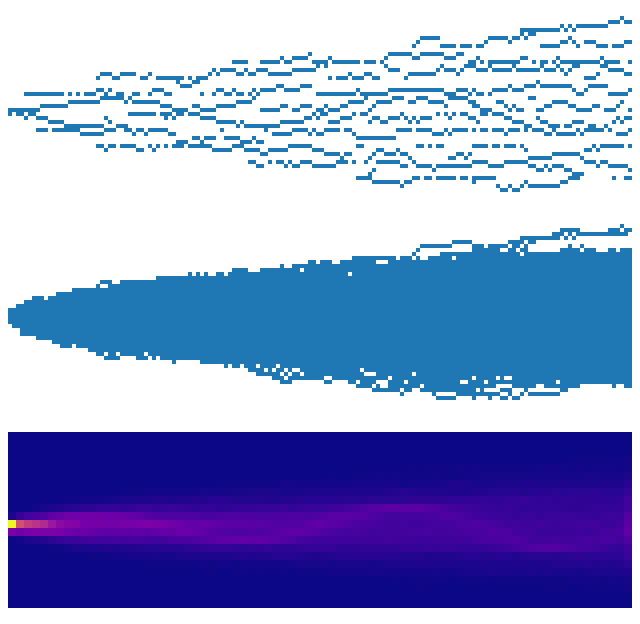
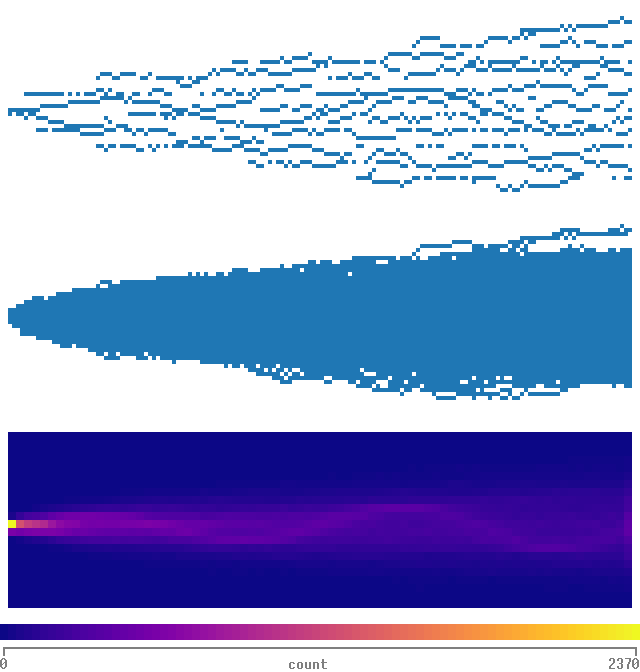
Draw values with heatmap where an example was scaling them by hand
`demo.py` was dividing its gaussian down to the unit interval, `colormaps.py`
was dividing its integer test images by sixteen and by ten purely to preview
them as grey --- on top of the division that built them --- and the banding ramp
in `terminal_test.py` was relying on its own arithmetic to say that it covers
the whole colormap. All three state the interval now and leave their data
alone.

`image.py` keeps its arithmetic. Its six panels read one array six ways, and
several of those ways are about the arithmetic rather than about a value scale:
inverting it, shifting it half way up the rainbow, indexing a palette with it.
An array of numbers is a heatmap when the numbers are quantities to be read off
a scale, and there they are digits in a picture.

`doomfire.py`, `vaporwave.py`, `boing.py` and `life.py` hold colours or palette
indices, which normalisation would destroy rather than help, and stay images
for the same reason the discrete panels of the two galleries do.

`time_series_histogram.py` gets the colorbar its TODO asked for, running along
the foot of the panel. Beside the plot it would have cost the histogram seven of
its seventy-eight columns, and the three panels of that example are stacked
precisely because they are the same width; underneath it costs three rows, which
nothing else is measured against.

diff --git a/examples/demo.py b/examples/demo.py
@@ -15,7 +15,7 @@ def main(save: str | None = None):
     np.random.seed(42)
     u = np.random.rand(size**2).reshape(size,size)
     i = np.eye(size)
-    g = np.clip(np.random.normal(size=(size, size)) + 3, 0, 6) / 6
+    g = np.clip(np.random.normal(size=(size, size)) + 3, 0, 6)
     plot = (
         mp.border(
             mp.center(mp.text("G'day matthewplotlib"), height=3, width=46),
@@ -23,24 +23,24 @@ def main(save: str | None = None):
         )
         |
         mp.border(
-            mp.text("uniform:") | mp.image(u, colormap=mp.reds),
+            mp.text("uniform:") | mp.heatmap(u, colormap=mp.reds, vrange=(0, 1)),
             style=mp.BoxStyle.LIGHT,
         ) + mp.border(
-            mp.text("identity:") | mp.image(i, colormap=mp.greens),
+            mp.text("identity:") | mp.heatmap(i, colormap=mp.greens, vrange=(0, 1)),
             style=mp.BoxStyle.HEAVY,
         ) + mp.border(
-            mp.text("gaussian:") | mp.image(g, colormap=mp.blues),
+            mp.text("gaussian:") | mp.heatmap(g, colormap=mp.blues, vrange=(0, 6)),
             style=mp.BoxStyle.DOUBLE,
         )
         |
         mp.border(
-            mp.text("uniform:") | mp.image(u, colormap=mp.yellows),
+            mp.text("uniform:") | mp.heatmap(u, colormap=mp.yellows, vrange=(0, 1)),
             style=mp.BoxStyle.ROUND,
         ) + mp.border(
-            mp.text("identity:") | mp.image(i, colormap=mp.cyber),
+            mp.text("identity:") | mp.heatmap(i, colormap=mp.cyber, vrange=(0, 1)),
             style=mp.BoxStyle.BLANK,
         ) + mp.border(
-            mp.text("gaussian:") | mp.image(g, colormap=mp.cyans),
+            mp.text("gaussian:") | mp.heatmap(g, colormap=mp.cyans, vrange=(0, 6)),
             style=mp.BoxStyle.BUMPER,
         )
         |

diff --git a/tests/examples.py b/tests/examples.py
@@ -113,7 +113,7 @@ EXAMPLES: tuple[Example, ...] = (
     Example("commit_heatmap.py",        11, 108, saves="png"),
     Example("dashboard.py",             15, 56, saves="gif",
             args=("--num-frames", "5")),
-    Example("demo.py",                  62, 80, saves="png"),
+    Example("demo.py",                  64, 80, saves="png"),
     Example("doomfire.py",              51, 80, saves="gif",
             args=("--num-frames", "5")),
     Example("functions.py",             31, 74, saves="png"),
@@ -153,7 +153,7 @@ EXAMPLES: tuple[Example, ...] = (
             args=("--width", "60", "--frames", "3")),
     Example("three_body.py",            24, 80, saves="gif",
             args=("--num-frames", "6", "--no-loop")),
-    Example("time_series_histogram.py", 40, 80, saves="png"),
+    Example("time_series_histogram.py", 43, 80, saves="png"),
     Example("vaporwave.py",             25, 80, saves="gif",
             args=("--num-frames", "5", "--no-loop")),
     Example("voronoi.py",               21, 70, saves="png"),

diff --git a/examples/colormaps.py b/examples/colormaps.py
@@ -28,22 +28,22 @@ def main(save: str | None = None):
         mp.text("test images:"),
         mp.hstack(
             mp.border(
-                mp.image(im_continuous),
+                mp.heatmap(im_continuous),
                 title="linspace(0,1,256",
             ),
             mp.border(
-                mp.image(im_discrete16 / 16),
+                mp.heatmap(im_discrete16, vrange=(0, 16)),
                 title="arange(256)/16",
             ),
             mp.border(
-                mp.image(im_discrete10 / 10),
+                mp.heatmap(im_discrete10, vrange=(0, 10)),
                 title="arange(256)/25.6",
             )
         ),
         mp.text("continuous colormaps:"),
         mp.wrap(*[
             mp.border(
-                mp.image(im_continuous, colormap=c),
+                mp.heatmap(im_continuous, colormap=c),
                 title=c.__name__,
             )
             for c in [

diff --git a/examples/time_series_histogram.py b/examples/time_series_histogram.py
@@ -60,15 +60,24 @@ def main(save: str | None = None):
 
     # TODO: log scale
 
-    # Histogram 2d, linear colour scale
-    plot3 = mp.border(mp.histogram2(
+    # Histogram 2d, linear colour scale, with a bar to read the colours by.
+    # The bar runs along underneath, so the panel is as wide as the two above.
+    hist = mp.histogram2(
         x=X.ravel(),
         y=Y.ravel(),
         width=78,
         height=11,
         colormap=mp.plasma,
-    ))
-    # TODO: colorbar
+    )
+    plot3 = mp.vstack(
+        mp.border(hist),
+        mp.axes(
+            mp.colorbar(hist, direction="right", length=80),
+            south="label",
+            xlabel="count",
+            xfmt="{x:.0f}",
+        ),
+    )
     print(plot3)
 
     if save:

diff --git a/examples/terminal_test.py b/examples/terminal_test.py
@@ -57,9 +57,10 @@ def banner(n: int, title: str, expect: str) -> None:
 def ramp(width: int, height: int, phase: float) -> mp.plot:
     """A smooth two-dimensional colour ramp, which banding shows up in."""
     ys, xs = np.mgrid[0:height, 0:width]
-    return mp.image(
+    return mp.heatmap(
         (xs / max(width - 1, 1) + ys / max(height - 1, 1) + phase) % 1.0,
         colormap=mp.viridis,
+        vrange=(0.0, 1.0),
     )
 
 

diff --git a/CHANGELOG.md b/CHANGELOG.md
@@ -96,6 +96,13 @@ Changed:
   nothing else it could mean.
 * A `heatmap` value that is not a number is left out of an inferred interval,
   and comes out at the bottom of the colormap wherever it appears.
+* The examples that had values on a colour scale draw them with `heatmap`,
+  rather than scaling them into the unit interval by hand first. The ones
+  drawing colours, or palette indices for a discrete colormap, still use
+  `image`, which is what it is for.
+* `time_series_histogram.py` gives its 2d histogram the colorbar it had a
+  standing TODO for, along the foot of the panel so that all three panels stay
+  the same width.
 
 Fixed:
 
